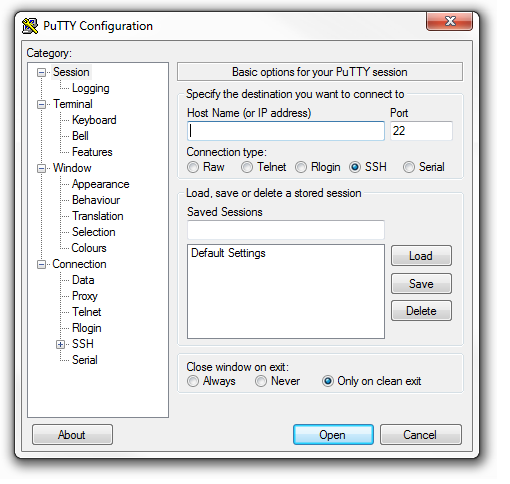
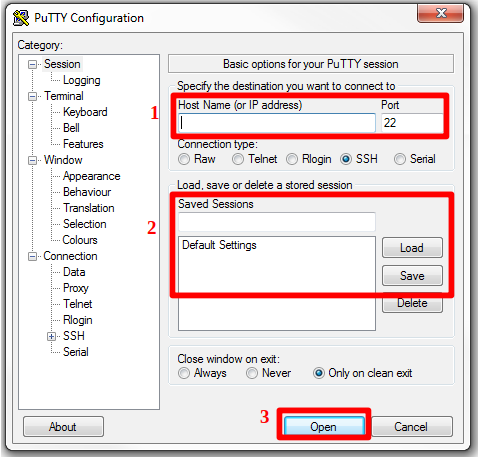
Partial description for access Windows

diff --git a/access/README.md b/access/README.md
@@ -18,11 +18,22 @@ In addition, there is operating system-specific setup(detailed below) that you w
 
 By default, Mac OS X comes with a program called `terminal` which can be used for connecting to systems.  The terminal program can be found in  Utilities folder which can be quickly opened using the keyboard shortcut `Shift+Command+U`.  Once you click on the terminal program to open it, we suggest you save it to your toolbar for faster access in the future.
 
-Once terminal is running you connect using the `ssh` command as in `ssh userName@system.fandm.edu`.  For example, `ssh aweaver29@rcs-sc.fandm.edu`  **Please note:** You will be prompted to enter your password.  As you type, nothing will display on the screen.  There is no problem and the system does know which characters are being typed.
+Once terminal is running you connect using the `ssh` command as in `ssh userName@system.fandm.edu`.  For example, `ssh aweaver29@rcs-scsn.fandm.edu`  **Please note:** You will be prompted to enter your password.  As you type, nothing will display on the screen.  There is no problem and the system does know which characters are being typed.
 
 In order to access graphical applications you must install [XQuartz](https://www.xquartz.org/).  Once installed, you need to start XQuartz (Go to Applications > Utilities > XQuartz) before doing the ssh command.  This will open a window which just has to be running.  Then when you ssh, the command changes slightly to use the `-Y` flag as `ssh -Y aweaver29@rcs-sc.fandm.edu`.
 
 ## Windows setup
 
 For Windows machines we recommend installing PuTTY which can be found in the Microsoft Store (It's provided and updated by Simon Tatham).
+
+To setup a new connection
+
+1. Put `userName@system.fandm.edu` in the box labelled `Host Name (or IP address)` (label 1 in the picture below).  For example: `aweaver29@rcs-scsn.fandm.edu`
+2. Save the connection for easier access later by entering a name (whatever you want to call it) for it in the box `Saved Sessions` (label 2)  and click `Save`
+3. Click `Open` (label 3) to connect to the server.  A window will open up asking for your password.
+   **Please note:** As you type, nothing will display on the screen.  There is no problem and the system does know which characters are being typed.
+
+![PuTTY connection windows](putty.png)
+
+To connect to a saved session, select it from the list and click `Load` and then `Open`
 
